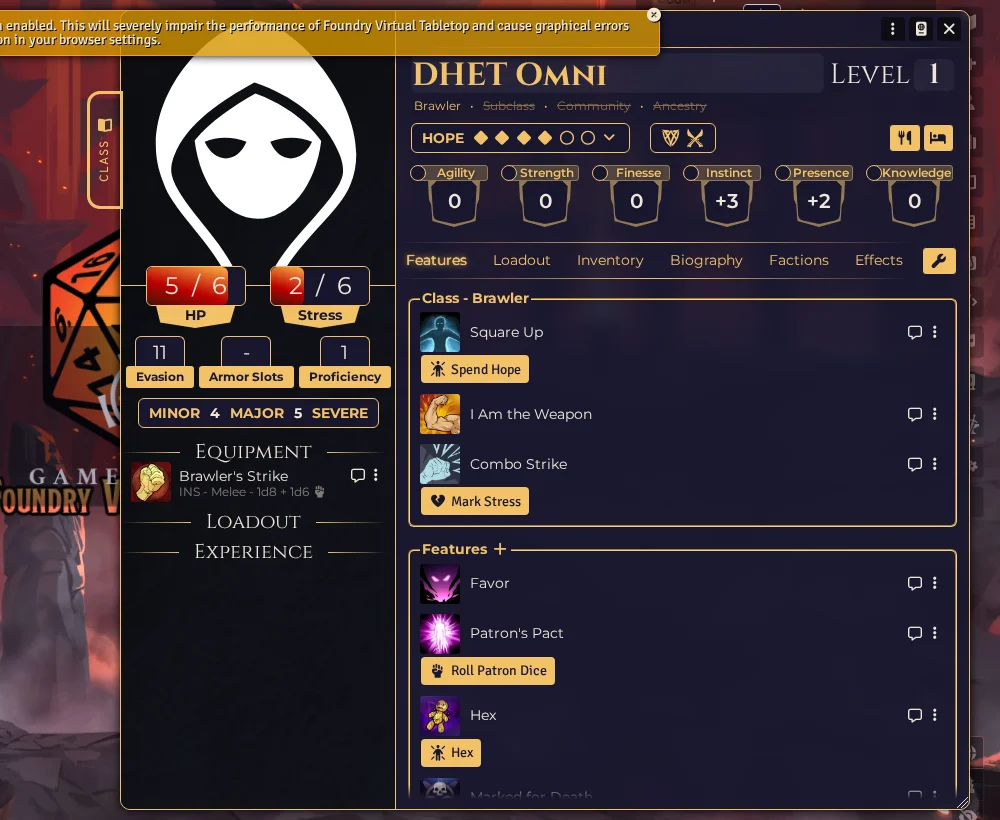
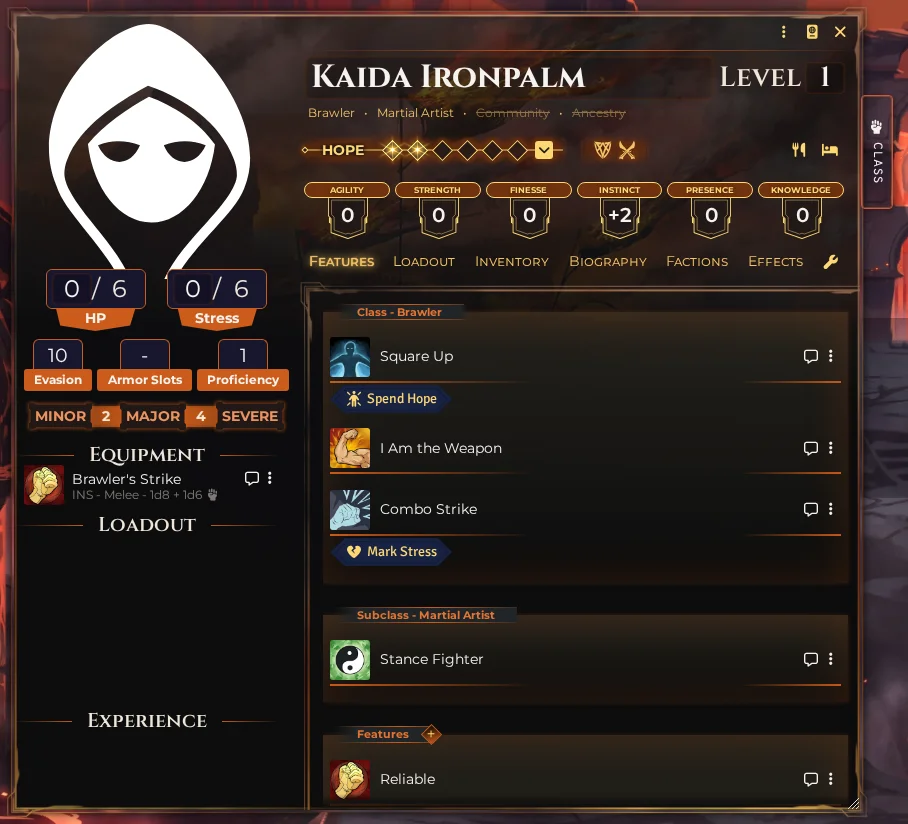
Retake the folded drawer screenshot without the browser warning

diff --git a/README.md b/README.md
@@ -26,7 +26,7 @@ https://github.com/emberite/dh-emberite-tweaks/releases/latest/download/module.j
 
 The tab sits on the sheet's right edge and follows the window when you move, resize or minimise it. If the sheet is too close to the right side of the screen, the drawer opens on the left instead. Clicking the tab folds the drawer away; the next sheet you open remembers whether it was open. Only the character's owners and the GM see it.
 
-![Folded away, only the tab shows](docs/screenshots/04-folded.webp)
+![Folded away, only the Class tab shows on the sheet edge](docs/screenshots/04-folded.webp)
 
 ## Features
 
